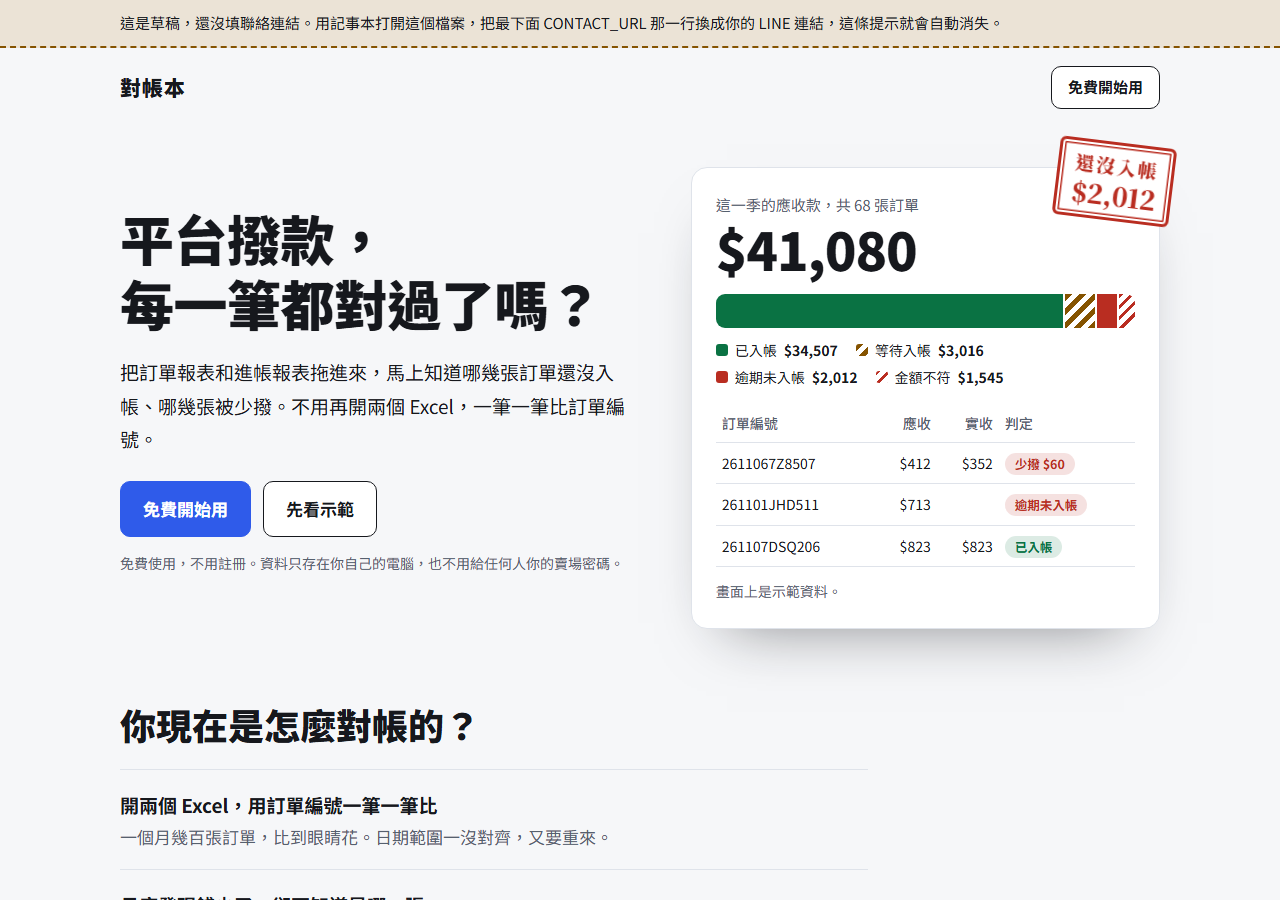
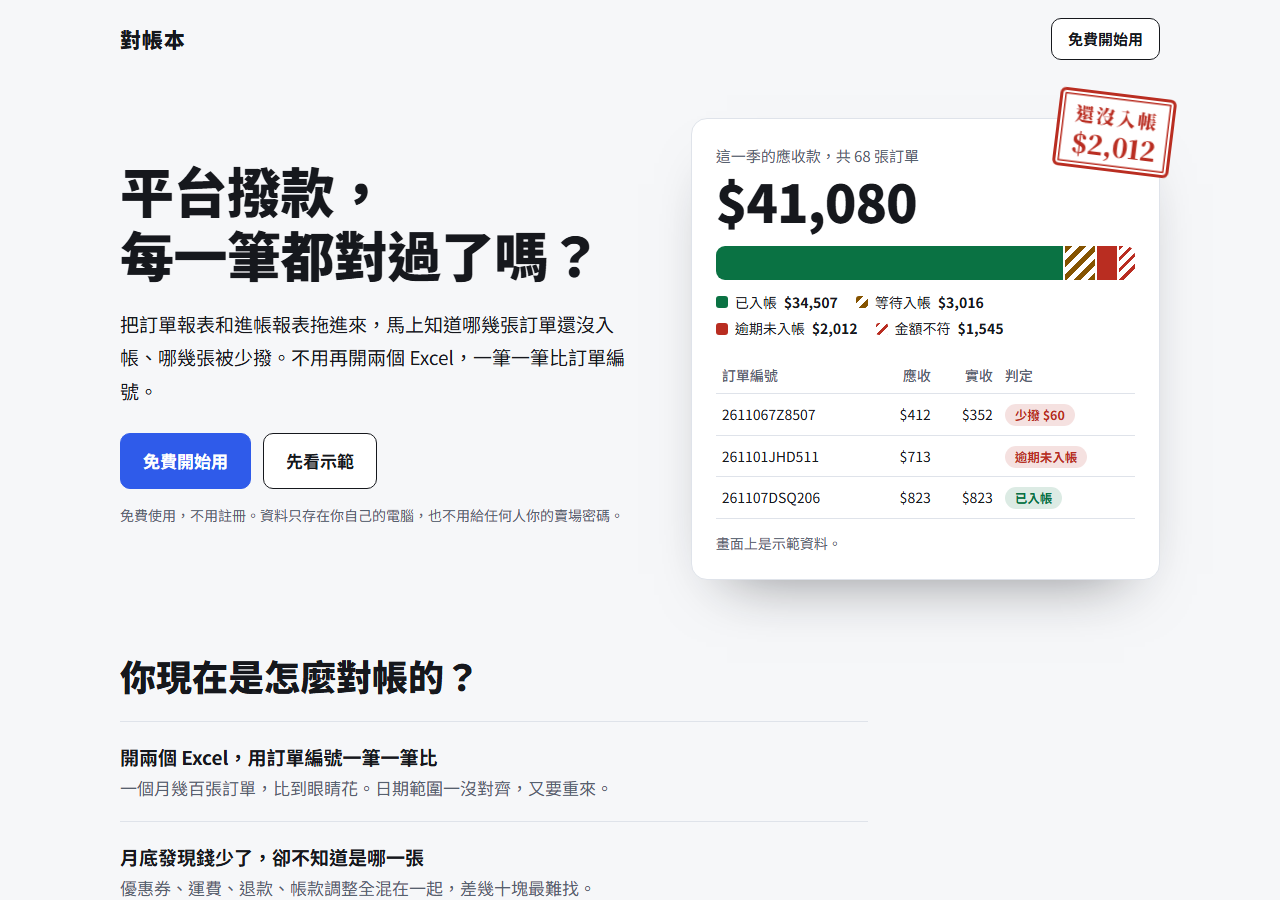
Set the LINE contact link on the sales page
With CONTACT_URL filled in, the draft banner goes away and the contact
buttons open the owner's LINE. Also add a contact button to the setup
pricing card so paying customers do not have to scroll to the end.

Changed region(s): [[0.0, 0.0, 1.0, 0.7467], [0.0938, 0.1867, 0.5, 0.6533], [0.0938, 0.7156, 0.4688, 1.0]]

diff --git a/index.html b/index.html
@@ -247,6 +247,7 @@
           <li>陪你實際對完一個月的帳</li>
           <li>教你之後怎麼自己做</li>
         </ul>
+        <p style="margin:18px 0 0"><a class="btn" data-contact href="#contact">用 LINE 找我</a></p>
       </div>
       <div>
         <h3>之後每個月</h3>
@@ -283,7 +284,7 @@
 </div>
 <script>
 // 上線前只要改這一行：填上你的 LINE 連結，例如 'https://line.me/ti/p/你的ID'。填好後草稿提示會自動消失。
-const CONTACT_URL = '';
+const CONTACT_URL = 'https://line.me/ti/p/DVs_lVXQbH';
 for (const a of document.querySelectorAll('[data-contact]')) {
   if (CONTACT_URL) { a.href = CONTACT_URL; a.target = '_blank'; a.rel = 'noopener'; a.classList.remove('todo'); }
   else a.textContent += '（還沒填連結）';
